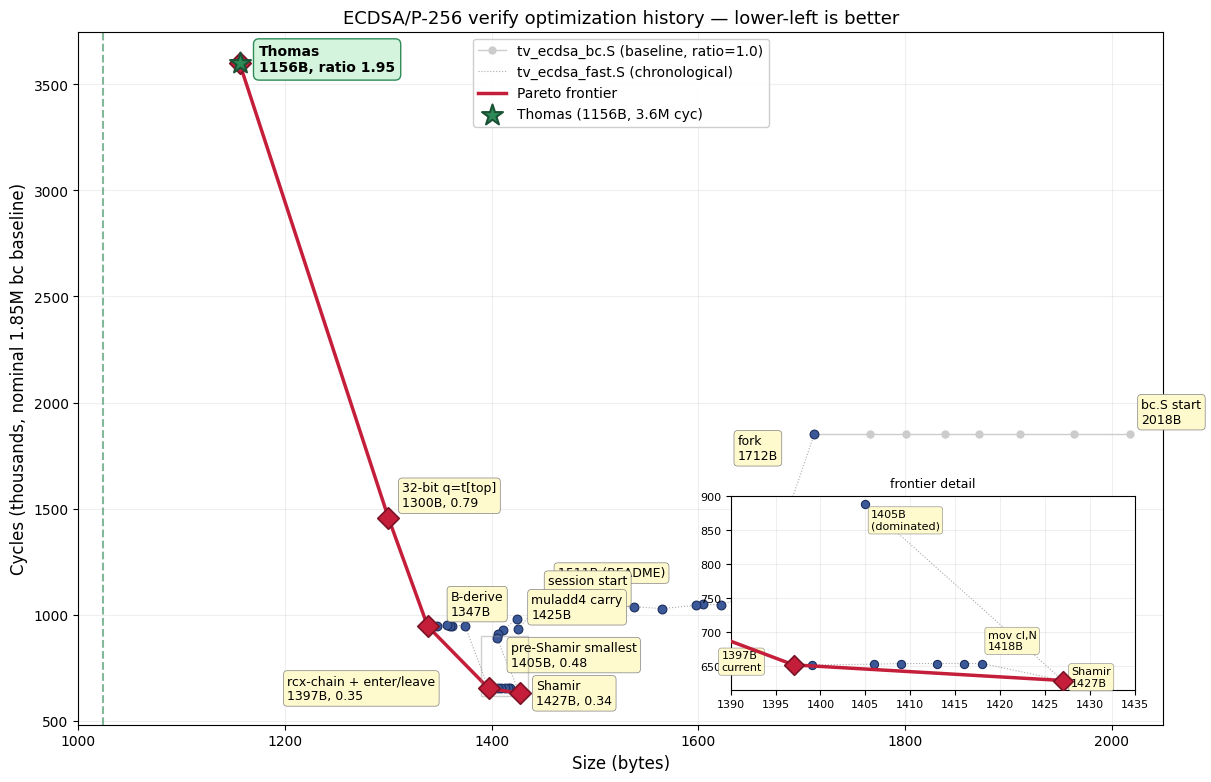
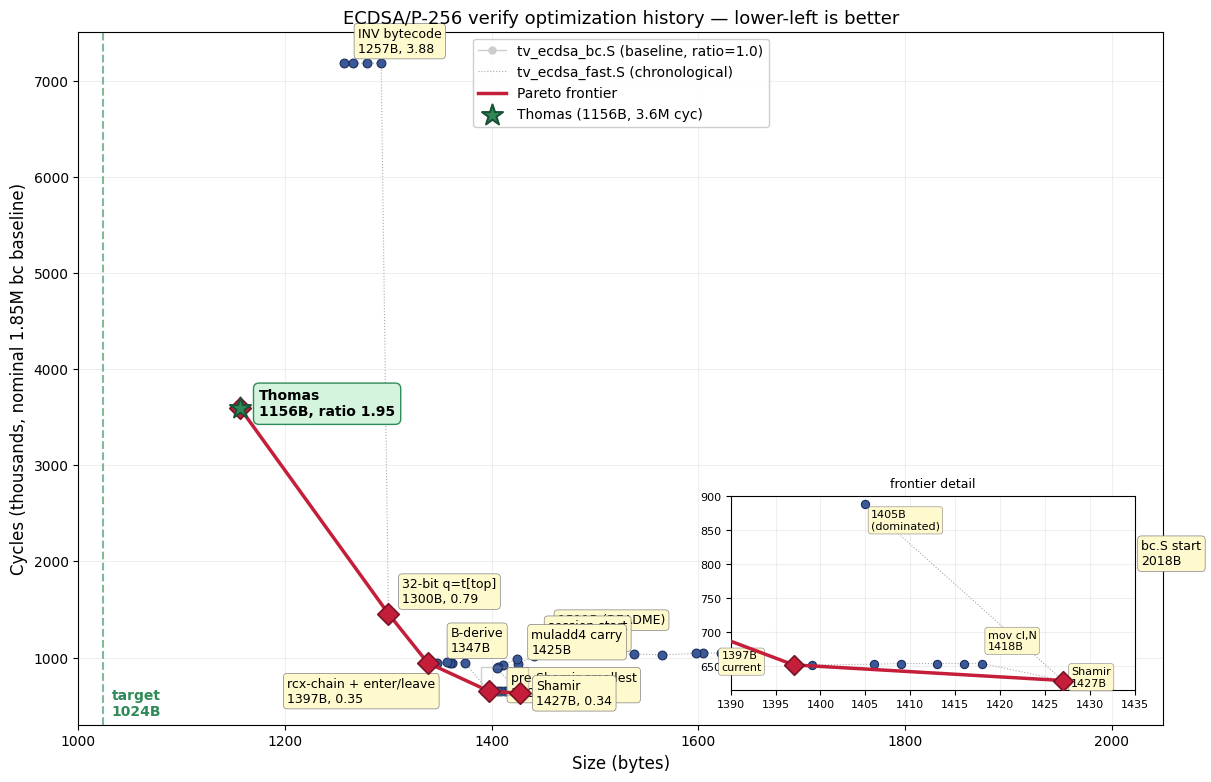
Update chart with 32-bit sweep checkpoints (1300→1257)

diff --git a/docs/plot_history.py b/docs/plot_history.py
@@ -61,6 +61,10 @@ FAST = [
     (1347,  945, "B-derive\n1347B"),
     (1338,  945, None),   # Shamir one-rep
     (1300, 1456, "32-bit q=t[top]\n1300B, 0.79"),  # 1461/1855*1850
+    (1293, 7180, None),   # loop everywhere (true speed)
+    (1279, 7180, None),   # cdq + .Lop3 cond-sub
+    (1266, 7180, None),   # INV bytecode ops
+    (1257, 7180, "INV bytecode\n1257B, 3.88"),  # 7180/1855*1850
 ]
 
 def pareto(pts):
